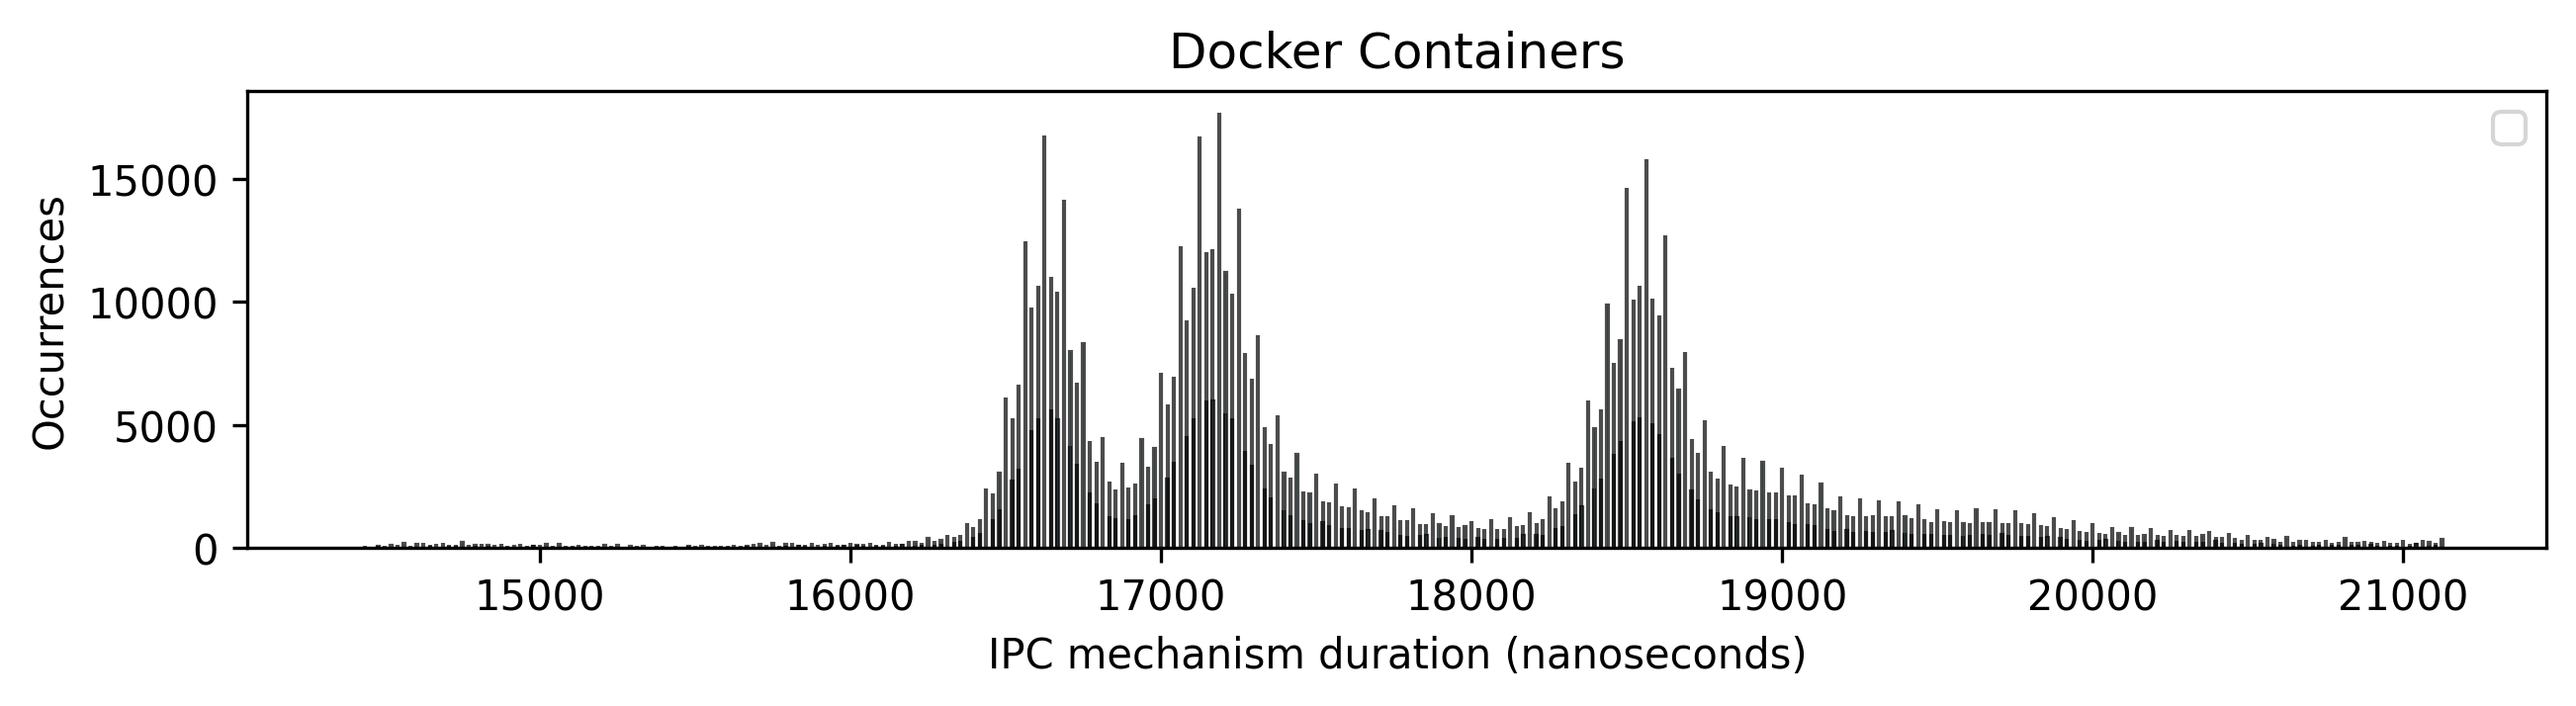
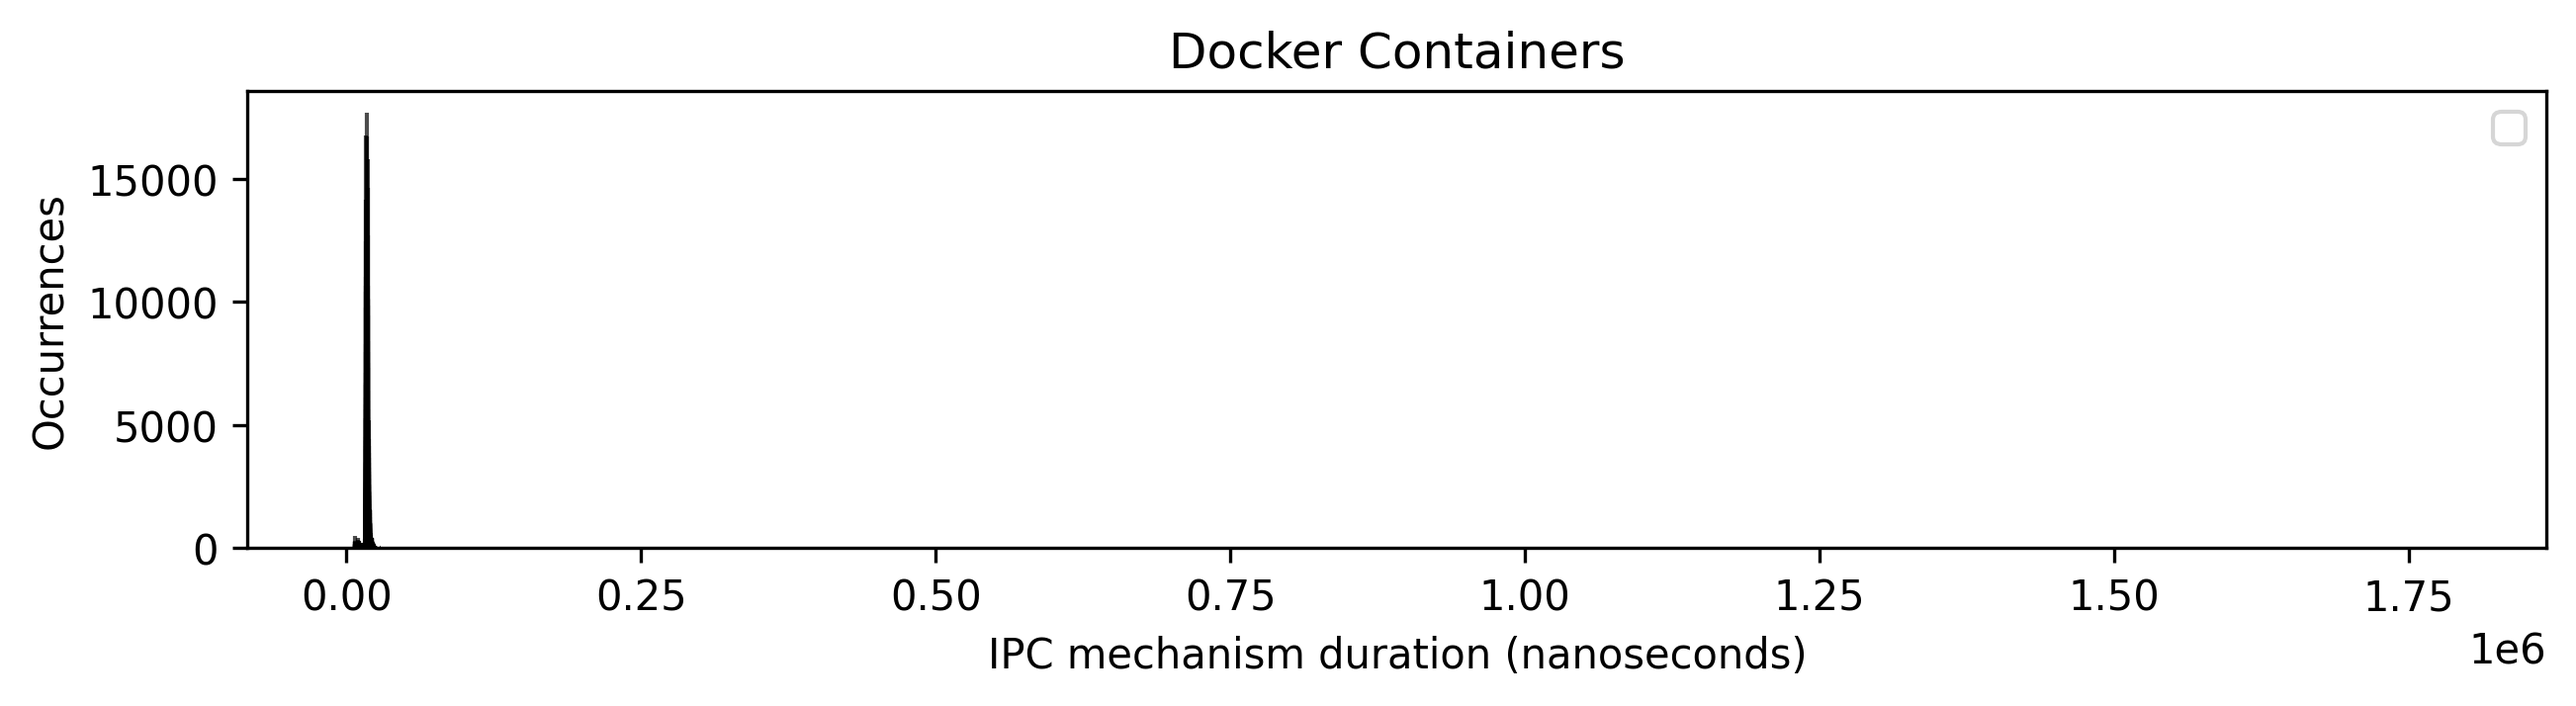
Update experiment result graphs

diff --git a/OS2_Analysis/analysis.py b/OS2_Analysis/analysis.py
@@ -16,7 +16,7 @@ def analyze_data(file_name, experiment_name):
     data = [x/2 for x in data]
 
 
-    data, indices = remove_outliers_iqr(data, indices)
+    #data, indices = remove_outliers_iqr(data, indices)
 
 
 
